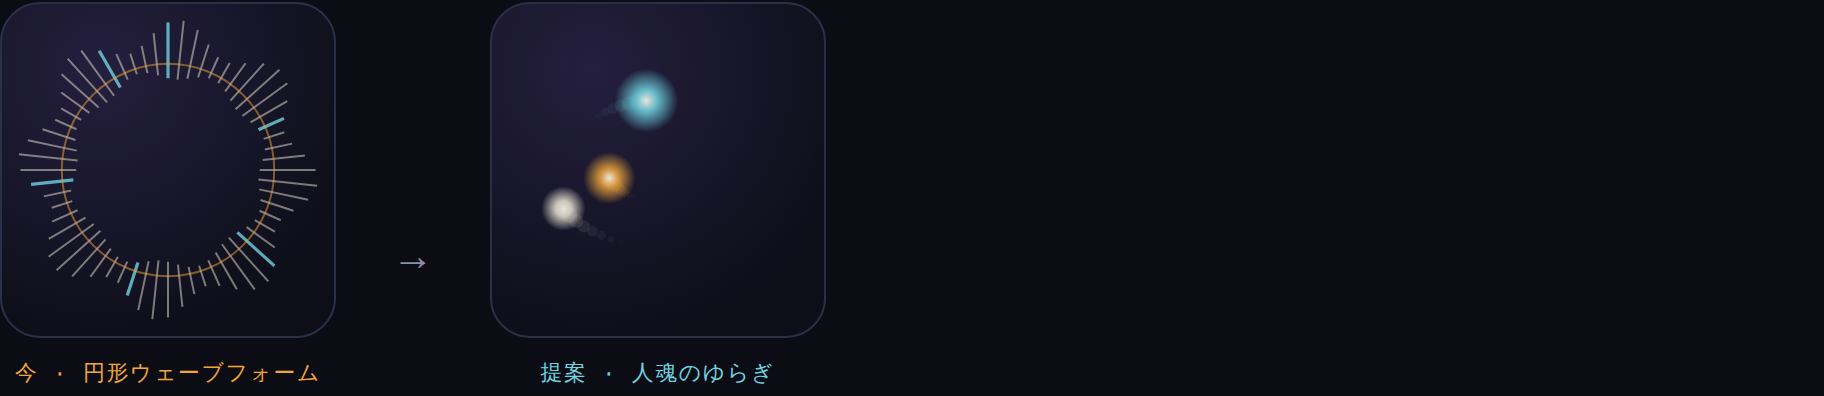
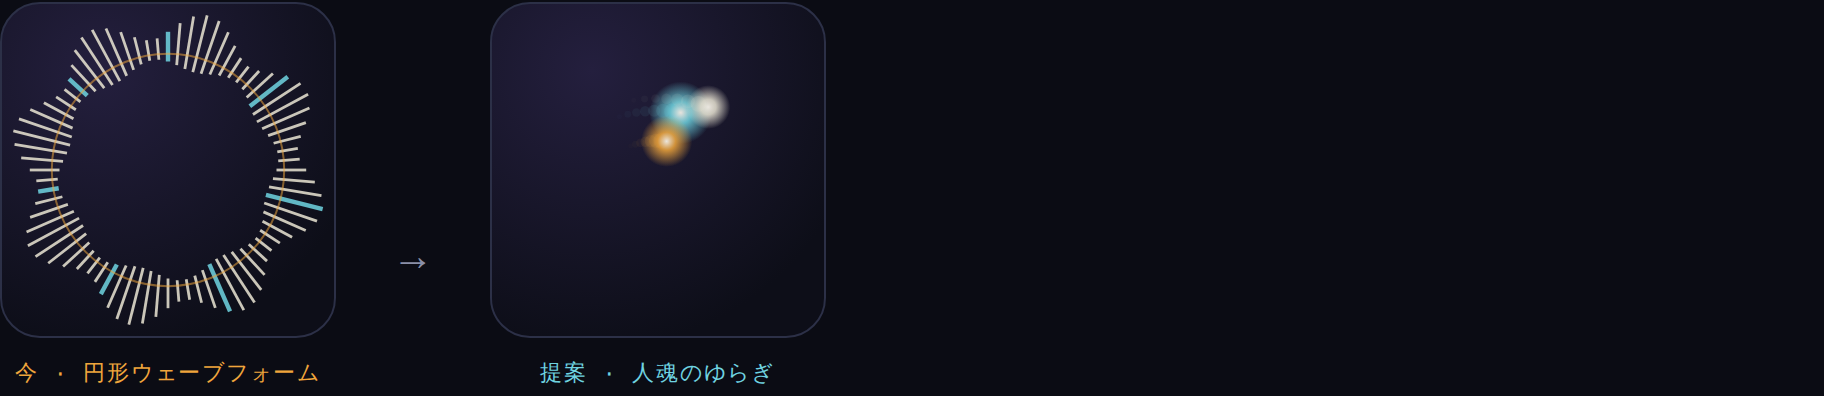
デザインナビ更新: がしゃどくろ刷新+夜行絵巻の振付をインタラクティブ版へ移植 (#12)
がしゃどくろをSNES級解像度(125×105ドット・限定11色)の2フレームスプライトへ刷新し、
全妖怪をSNES級へ刷新する方針を DESIGN_NAV に明文化(アセット制作は実装後)。
インタラクティブ版に YagyoParadeView.swift の振付を式のまま移植し、
docs/design の画像6枚を再書き出し。

diff --git a/docs/DESIGN_NAV.md b/docs/DESIGN_NAV.md
@@ -4,13 +4,13 @@
 
 **追従対象**: `docs/PRODUCT_DIRECTION.md` v3。ロードマップ・原則・非目標・Decision Rubric などの一次情報はここには複製しない — 常に本体を参照する。憲章が改訂されたら、このファイルの該当節(現在地の画像・翻訳帳プレビュー)を見直す。
 
-**インタラクティブ版**: [Claude Design で見る](https://claude.ai/code/artifact/aa4981af-47ac-4fb9-a764-751f356d6261) — 月タップでの丑三つ時切替、人魂の浮遊、がしゃどくろの明滅がその場で動く。Claudeアカウント限定のプライベートリンクなので、他の人に見せたい場合はページ右上の共有メニューから許可が要る。このファイルの画像は、そのアーティファクトから書き出した静止版。
+**インタラクティブ版**: [Claude Design で見る](https://claude.ai/code/artifact/aa4981af-47ac-4fb9-a764-751f356d6261) — 月タップでの丑三つ時切替に加えて、行列の振付(歩き2フレーム・音の山への跳ね・唐傘と天狗の hit・木魚の squash・狐火の flare・提灯の非対称スムージング)が `YagyoParadeView.swift` の式のまま動く。人魂の浮遊、がしゃどくろの骨鳴らし(パネルタップ)もその場で試せる。Claudeアカウント限定のプライベートリンクなので、他の人に見せたい場合はページ右上の共有メニューから許可が要る。このファイルの画像は、そのアーティファクトから書き出した静止版。
 
 ---
 
 ## 実装ずみの画面
 
-配色・寸法・ドット絵・レイアウトは `DesignTokens.swift` / `PixelSprites.swift` / `YagyoParadeView.swift` / `ContentView.swift` から直接抽出した、現行実装そのもの(§3・§4.1)。誇張した演出は足していない。
+配色・寸法・ドット絵・レイアウトに加えて、行列の振付(4fpsのフレーム切替・`react = wave² × level` の跳ね・hit/squash/flare・木魚のバチ・強い山の白いひらめき・提灯の非対称スムージング)も `DesignTokens.swift` / `PixelSprites.swift` / `YagyoParadeView.swift` / `ContentView.swift` から直接抽出した、現行実装そのもの(§3・§4.1)。誇張した演出は足していない。
 
 | Day | 丑三つ時(月タップで遷移) |
 |---|---|
@@ -62,6 +62,14 @@
 
 ---
 
+## スプライト解像度の方針 — 全妖怪をSNES級へ
+
+**方針(2026-07-10 決定)**: がしゃどくろだけでなく、**全ての妖怪(行列8体・一つ目小僧・ぬりかべ)をスーパーファミコン級の解像度のドット絵へ刷新する。** 8bitの記号性より、骨の面・衣の襞・提灯の照り返しまで描き込める解像度で、一体あたりの深度(§4.1)を絵柄でも引き上げる。
+
+- **時期**: アセット制作は実装が進んでから。挙動(Step 3「一本の耳」/ Step 4「夜行絵巻 2.0」で確定する反応の種類とフレーム数)が固まる前に描き直すと二度手間になるため、それまでは現行の8bit体を維持する。
+- **先行第一号**: がしゃどくろ(下記・コンセプト)。リファレンス画像 → 面積平均ダウンサンプル → k-means限定パレット量子化という制作パイプラインはここで確立済みで、残りの妖怪にも流用できる。
+- **変わらないもの**: ピクセルアートはにじませない(§8)。1文字=1ドットの行文字列+パレット形式(`PixelSprites.swift`)も維持し、解像度だけを引き上げる。
+
 ## 新規提案(まだ憲章に無いもの)
 
 どちらも翻訳帳(§4.1)と同じ規律 — 演出のための演出ではなく、必ず音響事象と結びつくこと — で考えた案。
@@ -74,7 +82,9 @@
 
 ### がしゃどくろ — 丑三つ時の奥に、ただ一体
 
-名の由来は骨が鳴る「がしゃがしゃ」という音 — 強いパーカッションの連打に骨が震える、翻訳帳的な必然がある新規キャラクター案。ただし §4.1 は頭数ではなく一体あたりの深度に投資する方針であり、§6 は妖怪の頭数を増やすこと自体を目的にしないと定めている。したがって**行列には加えない**。丑三つ時にだけ、夜空の奥にただ一体、輪郭と紅い眼だけで佇む気配として置く — 行列の仲間ではなく、丑三つ時という時刻そのものの一部として。
+名の由来は骨が鳴る「がしゃがしゃ」という音 — 強いパーカッションの連打に骨が震える、翻訳帳的な必然がある新規キャラクター案。ただし §4.1 は頭数ではなく一体あたりの深度に投資する方針であり、§6 は妖怪の頭数を増やすこと自体を目的にしないと定めている。したがって**行列には加えない**。丑三つ時にだけ、夜空の奥にただ一体 — 月光に沈む頭蓋、眼窩の紅、肋骨の檻、行列の上へ差しかかる指骨 — が気配として佇む。行列の仲間ではなく、丑三つ時という時刻そのものの一部として。
+
+ドット絵は歌川国芳「相馬の古内裏」の骸骨を下敷きに、**スーパーファミコン級の解像度(125×105ドット・限定11色)**で起こした2フレーム構成 — 全妖怪をSNES級へ刷新する方針(下記)の先行第一号。idle と rattle(下顎・指骨・肋骨だけを1ドット震わせ、頭蓋は動かさない)を持ち、連打の合図で切り替わる。インタラクティブ版ではパネルに触れると骨が鳴る。
 
 ![gashadokuro](design/gashadokuro-proposal.png)
 
@@ -88,4 +98,6 @@
 
 ## 更新履歴
 
+- 2026-07-10: 全妖怪をSNES級解像度へ刷新する方針を追記(アセット制作は実装が進んでから)。先行第一号としてがしゃどくろをスーパーファミコン級の解像度(125×105ドット・限定11色)へ引き上げ。
+- 2026-07-09: がしゃどくろを「骸骨と読める」大判2フレームスプライトに刷新(国芳構図・複数案から審査選定)。インタラクティブ版に行列の振付(2フレーム歩行・hit・squash・flare・バチ・白いひらめき・提灯の非対称スムージング)を実装の式のまま移植し、翻訳帳の各行に妖怪グリフを追加。画像を全て再書き出し。
 - 2026-07-08: 初版。PRODUCT_DIRECTION.md v3 をもとに構築したデザインイメージ(Claude Design)から画像を書き出し。人魂・がしゃどくろの新規提案を追加。
